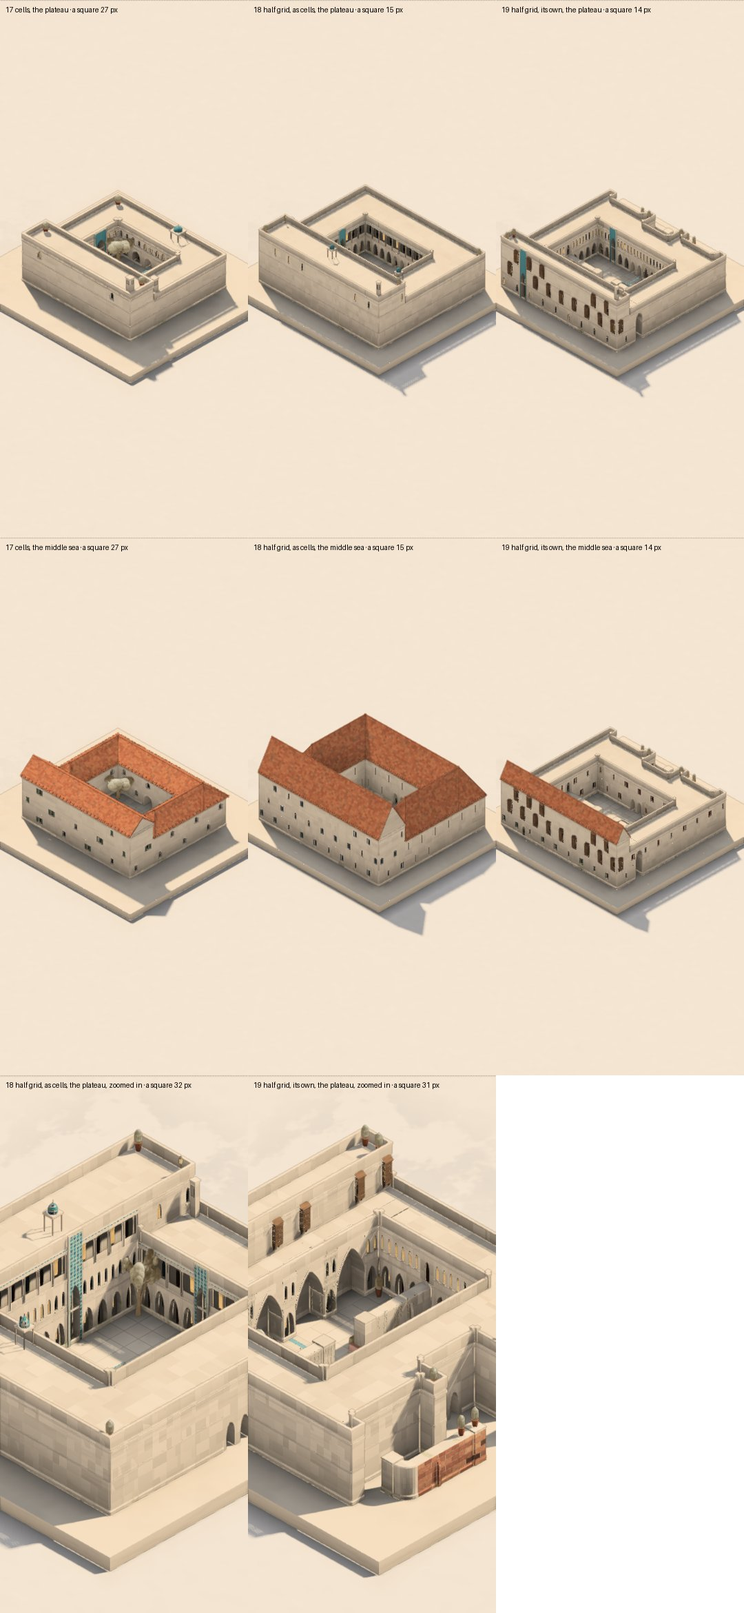
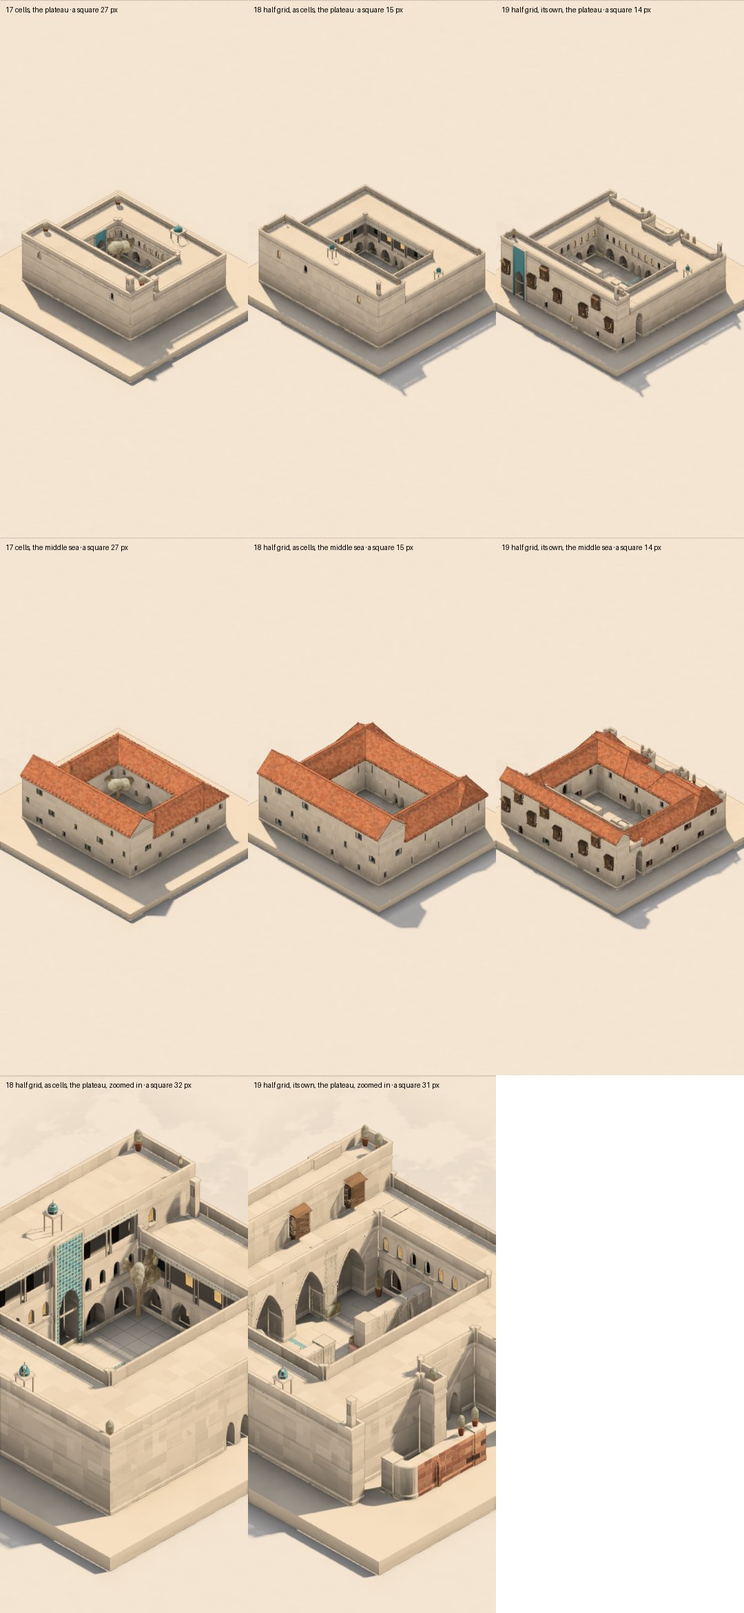
lab: half grid reads bays — openings and fronts across two faces, roofs and buildings scaled, galleries their building's own
Claude-Session: https://claude.ai/code/session_01D2Nx3PayKJtFYoab5A57H3

diff --git a/cells/lab/client/labyrinth/buildings.ts b/cells/lab/client/labyrinth/buildings.ts
@@ -66,7 +66,7 @@ export interface Building {
 /** a plan's wings: the fewest largest rectangles that cover it (overlapping where they meet), two cells wide or more;
  * what's too thin to roof left flat beside them, a terrace (`flat`). Null if it takes more than four, or more of it's
  * flat than roofed (a plan that ragged is left a terrace) */
-function wingsOf(cols: Array<[number, number]>): { wings: Array<{ i0: number; i1: number; j0: number; j1: number }>; flat: Array<[number, number]> } | null {
+function wingsOf(cols: Array<[number, number]>, bay = 1): { wings: Array<{ i0: number; i1: number; j0: number; j1: number }>; flat: Array<[number, number]> } | null {
   const has = new Set(cols.map(([x, z]) => `${x}.${z}`)), left = new Set(has), out: Array<{ i0: number; i1: number; j0: number; j1: number }> = [], flat: Array<[number, number]> = [];
   const full = (i0: number, i1: number, j0: number, j1: number) => { for (let x = i0; x <= i1; x++) for (let z = j0; z <= j1; z++) if (!has.has(`${x}.${z}`)) return false; return true; };
   while (left.size) {
@@ -80,8 +80,8 @@ function wingsOf(cols: Array<[number, number]>): { wings: Array<{ i0: number; i1
       const a = (i1 - i0 + 1) * (j1 - j0 + 1);
       if (g > gain || (g === gain && a > area)) { best = { i0, i1, j0, j1 }; area = a; gain = g; }
     }
-    if (!best || Math.min(best.i1 - best.i0, best.j1 - best.j0) < 1) { left.delete(`${x0}.${z0}`); flat.push([x0, z0]); continue; }
-    if (out.length >= 4) return null;
+    if (!best || Math.min(best.i1 - best.i0, best.j1 - best.j0) < bay) { left.delete(`${x0}.${z0}`); flat.push([x0, z0]); continue; }
+    if (out.length >= 4 * bay) return null;
     out.push(best);
     for (let p = best.i0; p <= best.i1; p++) for (let q = best.j0; q <= best.j1; q++) left.delete(`${p}.${q}`);
   }
@@ -95,6 +95,9 @@ function wingsOf(cols: Array<[number, number]>): { wings: Array<{ i0: number; i1
   return { wings: out, flat };
 }
 export interface Buildings { list: Building[]; at: Map<string, Opening>; inside: Array<[Cell, Cell]>; of: Map<number, Building>;
+  /** on the half grid: each face that leads a bay of two (both its building's, plain), by its key (k.i.j.d), to its
+   * partner's key; and back */
+  pairs: Map<string, string>; partners: Map<string, string>;
   /** the raised tops a way the hand made arrives on, and what's walked on from there at its height (a wall's top become a
    * promenade): places, by key */
   promenade: Set<number> }
@@ -117,8 +120,17 @@ export const underRoof = (b: Building): Array<[number, number]> => (b.roof ? b.c
 /** every cell of a building, from each column's base up */
 export const cellsOf = (b: Building): Cell[] => b.cols.flatMap(([x, z], n) => Array.from({ length: b.h - b.base[n] }, (_, q) => [b.base[n] + q, x, z] as Cell));
 
+/** whether a plan has a square n by n at (x, z) */
+const square = (has: Set<string>, x: number, z: number, n: number) => { for (let a = 0; a < n; a++) for (let c = 0; c < n; c++) if (!has.has(`${x + a}.${z + c}`)) return false; return true; };
+/** on the half grid (`w.bay` 2), a face's partner in its bay: the faces two to a bay along a front, the one at the even
+ * square leading (an opening, a front's bay, drawn across both from it); the other, and which way along it lies */
+export function pairOf(i: number, j: number, d: number): { lead: boolean; i: number; j: number; s: number } {
+  const [ta, tb] = DIRS[(d + 1) % 4], c = ta !== 0 ? i : j, lead = ((c % 2) + 2) % 2 === 0, o = lead ? 1 : -1;
+  return { lead, i: i + Math.abs(ta) * o, j: j + Math.abs(tb) * o, s: (ta + tb) * o };
+}
+
 function find(w: World): Buildings {
-  const list: Building[] = [], at = new Map<string, Opening>(), inside: Array<[Cell, Cell]> = [], of = new Map<number, Building>();
+  const list: Building[] = [], at = new Map<string, Opening>(), inside: Array<[Cell, Cell]> = [], of = new Map<number, Building>(), pairs = new Map<string, string>(), partners = new Map<string, string>();
   const e = w.extent();
   /**
    * A column's stack: its highest run of plain stone or archways (a passage through), and where it starts: the ground,
@@ -174,7 +186,7 @@ function find(w: World): Buildings {
     massOf.set(`${i}.${j}`, m);
     while (q.length) { const [x, z] = q.pop()!; cs.push([x, z]); m.heights.add(height(x, z)); for (const [a, b] of DIRS) if (anyH(x + a, z + b) && !massOf.has(`${x + a}.${z + b}`)) { massOf.set(`${x + a}.${z + b}`, m); q.push([x + a, z + b]); } }
     const has = new Set(cs.map(([x, z]) => `${x}.${z}`));
-    m.deep = cs.some(([x, z]) => has.has(`${x + 1}.${z}`) && has.has(`${x}.${z + 1}`) && has.has(`${x + 1}.${z + 1}`));
+    m.deep = cs.some(([x, z]) => square(has, x, z, 2 * w.bay));
   }
 
   // (the tops a stair tower serves: beside its top level, a place on stone, come into from it by a door; walked, so the
@@ -196,7 +208,7 @@ function find(w: World): Buildings {
     const has = new Set(cols.map(([x, z]) => `${x}.${z}`));
     // (a stair tower, put where a climb was too steep for a flight: a building however slim, two high or more)
     const stairTower = cols.find(([x, z]) => isTower(w.rules.get(key(0, x, z))));
-    const deep = cols.some(([x, z]) => has.has(`${x + 1}.${z}`) && has.has(`${x}.${z + 1}`) && has.has(`${x + 1}.${z + 1}`)), tower = (cols.length <= 2 && h - baseOf(i, j) >= 3) || !!stairTower;
+    const deep = cols.some(([x, z]) => square(has, x, z, 2 * w.bay)), tower = (cols.length <= 2 * w.bay * w.bay && h - baseOf(i, j) >= 3) || !!stairTower;
     // (a passage through its foot: covered, if it runs under two cells of it or more (a gate in a wall is one))
     const through = cols.filter(([x, z]) => w.archway(baseOf(x, z), x, z) >= 0).map(([x, z]) => [x, z, w.archway(baseOf(x, z), x, z)] as [number, number, number]);
     const whole = massOf.get(`${i}.${j}`);
@@ -218,13 +230,24 @@ function find(w: World): Buildings {
       }
     }
     b.faces = faces;
+    // (on the half grid, its bays of two: a plain face at an even square and the plain one beside it along the front)
+    const fkey = (f: { k: number; i: number; j: number; d: number }) => `${f.k}.${f.i}.${f.j}.${f.d}`, faceAt = new Map(faces.map((f) => [fkey(f), f]));
+    if (w.bay === 2) for (const f of faces) {
+      const p = pairOf(f.i, f.j, f.d);
+      if (!p.lead || !f.plain) continue;
+      const q = faceAt.get(`${f.k}.${p.i}.${p.j}.${f.d}`);
+      if (q?.plain) { pairs.set(fkey(f), fkey(q)); partners.set(fkey(q), fkey(f)); }
+    }
     const foot = (f: (typeof faces)[number]) => f.k === baseOf(f.i, f.j);
     // (its top: walked if a way arrives there from beyond it)
     const tops = cols.map(([x, z]) => key(h, x, z)).filter((v) => nav.places.has(v)), topSet = new Set(tops);
     // (a stair tower's top is always come to: that's what it's for, even where it's become part of what it climbs to)
     // (and one the hand climbs inside (`RULE.within`): its top walked, come to by its stair, its door where it was asked)
     const within = cols.flatMap(([x, z]) => { const r = w.rules.get(key(baseOf(x, z), x, z)); return isWithin(r) ? [{ x, z, d: r! - RULE.within }] : []; });
-    const arrives = tops.some((v) => (nav.next.get(v) ?? []).some((u) => !topSet.has(u)) || served.has(v)) || within.length > 0;
+    // (on the half grid, the top of a gallery carried along its own front (a span against it, level with its top) is its
+    // own: a way there doesn't make it walked)
+    const gallery = (u: number) => { const [ku, x, z] = unkey(u); return w.bay === 2 && ku === h && w.span(h - 1, x, z) && DIRS.some(([a, c]) => mine.has(`${x + a}.${z + c}`)); };
+    const arrives = tops.some((v) => (nav.next.get(v) ?? []).some((u) => !topSet.has(u) && !gallery(u)) || served.has(v)) || within.length > 0;
     // (doors where ways arrive against its walls, at height)
     const placeAt = (c: Cell) => key(...c);
     // (above its own foot: a door from a way at height, or (set into a bank) from the hill above)
@@ -262,6 +285,8 @@ function find(w: World): Buildings {
       const pickFrom = court.length ? court : atFoot;
       doors.push(pickFrom[hash(w.seed, id, 3) % pickFrom.length]);
     }
+    // (on the half grid, a door in its bay's leading face, so it's drawn across the bay)
+    if (w.bay === 2) doors.forEach((f, n) => { const lead = partners.get(fkey(f)); if (lead && !doors.some((g) => fkey(g) === lead)) doors[n] = faceAt.get(lead)!; });
     for (const f of doors) b.openings.push({ kind: 'door', style: 'arched', k: f.k, i: f.i, j: f.j, d: f.d });
     // (a passage through its foot: its rooms' door is in the passage's side, under the vault, where it's come in from)
     if (through.length > porch.length) {
@@ -297,7 +322,9 @@ function find(w: World): Buildings {
     const isDoor = (f: (typeof faces)[number]) => doors.some((g) => g.k === f.k && g.i === f.i && g.j === f.j && g.d === f.d);
     for (const f of faces) {
       if (!f.plain || isDoor(f) || (foot(f) && arrives && !w.courts.has(key(0, f.out[1], f.out[2])))) continue;
-      const along = f.d % 2 ? f.i : f.j;
+      // (on the half grid, a window to a bay of two, in its leading face (its partner no door), counted by bays along)
+      if (w.bay === 2) { const p = pairs.get(fkey(f)); if (!p || doors.some((g) => fkey(g) === p)) continue; }
+      const along = Math.floor((f.d % 2 ? f.i : f.j) / w.bay);
       const want = b.tower && b.inside ? f.d === f.k % 4 : (along + f.k) % 2 === 0 && (f.k < h - 1 || h <= 2 || hash(w.seed, f.i, f.j, f.k, f.d) % 3 > 0);
       if (want) b.openings.push({ kind: 'window', style: b.tower && b.inside ? 'slit' : style, k: f.k, i: f.i, j: f.j, d: f.d });
     }
@@ -310,7 +337,7 @@ function find(w: World): Buildings {
     // (the part of its plan a roof would go over: all of it, or what's left beside a terrace)
     const R = b.roofPlan ?? { i0, i1, j0, j1 }, rcols = cols.filter(([x, z]) => x >= R.i0 && x <= R.i1 && z >= R.j0 && z <= R.j1), rmine = new Set(rcols.map(([x, z]) => `${x}.${z}`));
     // (a plan that isn't a rectangle: roofed in wings, if it's no more than four of them two cells wide or more)
-    const wings = !b.rect && !b.roofPlan ? wingsOf(cols) : null;
+    const wings = !b.rect && !b.roofPlan ? wingsOf(cols, w.bay) : null;
     if (rule === RULE.noRoof || watered || (!rule && ((b.walked && !b.roofPlan) || dressedTop || (!b.rect && !wings)))) b.roof = null;
     // (each wing hipped, so where one runs into another its end slopes down under the other's roof)
     // (where a tradition's tops are flat, a plan in wings is too)
@@ -351,7 +378,7 @@ function find(w: World): Buildings {
     const d = (f.d + 2) % 4, id = `${B[0]}.${B[1]}.${B[2]}.${d}`;
     if (!at.has(id)) at.set(id, { kind: 'door', style: 'arched', k: B[0], i: B[1], j: B[2], d });
   }
-  return { list, at, inside, of, promenade };
+  return { list, at, inside, of, promenade, pairs, partners };
 }
 /** the manner a cell's built in: its building's (the cell's, or the one over it: an arch carrying it), else its district's
  * (regions.ts) */

diff --git a/cells/lab/client/labyrinth/facades.ts b/cells/lab/client/labyrinth/facades.ts
@@ -51,6 +51,7 @@ export function facades(w: World): Map<string, Bay> {
   const c = cache.get(w);
   if (c && c.v === w.version) return c.bays;
   const bays = compose(w);
+  if (w.bay === 2) inPairs(w, bays);
   cache.set(w, { v: w.version, bays });
   return bays;
 }
@@ -122,7 +123,7 @@ function compose(w: World): Map<string, Bay> {
     for (const f of b.faces) {
       const [, oi, oj] = f.out, k = f.k;
       if (!f.plain || k <= base(f.i, f.j) || k < b.h - 2 || bays.has(`${k}.${f.i}.${f.j}.${f.d}`) || overCourt(f.out)) continue;
-      if ((f.d % 2 ? f.i : f.j) % 2 !== k % 2) continue;
+      if (Math.floor((f.d % 2 ? f.i : f.j) / w.bay) % 2 !== k % 2) continue;
       // (a drop: the ground out there lower than the building's own foot; air all the way down to it)
       let drop = w.ground(oi, oj) < base(f.i, f.j);
       for (let q = w.ground(oi, oj); q < k && drop; q++) if (w.occupied(q, oi, oj) || w.earth(q, oi, oj)) drop = false;
@@ -131,11 +132,33 @@ function compose(w: World): Map<string, Bay> {
     // (turned in on its court: its other faces blank, but its doors and a few high windows)
     if (runs.length) for (const f of b.faces) {
       if (!f.plain || bays.has(`${f.k}.${f.i}.${f.j}.${f.d}`) || b.openings.some((o) => o.kind === 'door' && o.k === f.k && o.i === f.i && o.j === f.j && o.d === f.d)) continue;
-      const high = f.k === b.h - 1 && f.k > base(f.i, f.j) && (f.d % 2 ? f.i : f.j) % 2 === 0;
+      const high = f.k === b.h - 1 && f.k > base(f.i, f.j) && Math.floor((f.d % 2 ? f.i : f.j) / w.bay) % 2 === 0;
       if (!high) put(f, 'blank');
     }
   }
   return bays;
+}
+
+/**
+ * On the half grid, a front's bays two faces wide: each part moved to its bay's leading face (buildings.ts `pairOf`),
+ * which draws it across both, its partner left to it (`over`); a face with no partner in its bay (an odd one at a
+ * front's end) plain, but a jetty's (the storey stands out whole). A run's ends looked for a bay along, not a face.
+ */
+function inPairs(w: World, bays: Map<string, Bay>) {
+  const { pairs, partners } = buildings(w);
+  for (const [id, by] of [...bays]) {
+    const lead = partners.get(id);
+    if (lead && !bays.has(lead)) { const [k, i, j, d] = lead.split('.').map(Number); bays.set(lead, { ...by, k, i, j, d, out: [k, i + DIRS[d][0], j + DIRS[d][1]] }); }
+  }
+  for (const [id, by] of [...bays]) {
+    const p = pairs.get(id);
+    if (p) bays.set(p, { ...by, role: 'over', k: by.k, ends: undefined, ext: undefined });
+    else if (!partners.has(id) && by.role !== 'jetty') bays.set(id, { ...by, role: 'blank' });
+  }
+  for (const by of bays.values()) if ((by.role === 'loggia' || by.role === 'veranda') && pairs.has(`${by.k}.${by.i}.${by.j}.${by.d}`)) {
+    const [ta, tb] = DIRS[(by.d + 1) % 4], same = (s: number) => bays.get(`${by.k}.${by.i + ta * s}.${by.j + tb * s}.${by.d}`)?.role === by.role;
+    by.ends = [!same(-2), !same(2)];
+  }
 }
 
 const baseOf = (b: Building, i: number, j: number) => b.base[b.cols.findIndex(([x, z]) => x === i && z === j)];

diff --git a/cells/lab/client/labyrinth/mesh.ts b/cells/lab/client/labyrinth/mesh.ts
@@ -19,7 +19,7 @@
 import { hash } from '../kit/rng';
 import { perf } from './perf';
 import { character, look } from './character';
-import { buildings, grammarHere, opening, underRoof, type Building, type Opening } from './buildings';
+import { buildings, grammarHere, opening, pairOf, underRoof, type Building, type Opening } from './buildings';
 import { BUT, BUTH, BUTW, WT, buttresses, inBlock, outline, reach, wallCell, type Edge } from './form';
 import { CENTER, DECK, DIRS, DRESS, PLANT, key, soffit as flightSoffit, unkey, type Span, type World } from './model';
 import { climb, grow, growths } from './plants';
@@ -280,8 +280,15 @@ export function buildMesh(w: World, plain = false, selected: Set<number> = new S
       if (!e.open) return;
       const nv = nOf(e), foot = footOf(e);
       const whole = e.face >= 0 && Math.abs(e.dist - 0.5) < 1e-6, op = whole ? opening(w, k, i, j, e.face) : null, by = whole ? bayAt(w, k, i, j, e.face) : null;
-      if (by) { const [ta, tb] = DIRS[(e.face + 1) % 4]; frontBay(e.face, e.a[0] * ta + e.a[1] * tb, e.b[0] * ta + e.b[1] * tb, y0, y1 - bt, by, P, nv, foot); }
-      else if (op) { const [ta, tb] = DIRS[(e.face + 1) % 4]; holed(e.face, e.a[0] * ta + e.a[1] * tb, e.b[0] * ta + e.b[1] * tb, y0, y1 - bt, op, P, nv, foot); }
+      // (on the half grid, a bay of two faces: its leading face draws its opening or its part across both, as on a cell's
+      // face (twice as wide, twice as deep); its partner leaves it the room)
+      const fk = `${k}.${i}.${j}.${e.face}`, bs = whole && w.bay === 2 ? buildings(w) : null, lead = bs?.partners.get(fk);
+      const ceded = !!lead && (() => { const [lk, li, lj, ld] = lead.split('.').map(Number); return !!(opening(w, lk, li, lj, ld) || bayAt(w, lk, li, lj, ld)); })();
+      const wide = !!bs?.pairs.has(fk) && !!(op || by), sg = wide ? pairOf(i, j, e.face).s : 0;
+      const PB = wide ? (d: number, s2: number, y: number, inset = 0) => P(d, sg * 0.5 + 2 * s2, y, 2 * inset) : P;
+      if (ceded && !by) { /* (its partner's) */ }
+      else if (by) { const [ta, tb] = DIRS[(e.face + 1) % 4]; frontBay(e.face, wide ? -0.5 : e.a[0] * ta + e.a[1] * tb, wide ? 0.5 : e.b[0] * ta + e.b[1] * tb, y0, y1 - bt, by, PB, nv, foot); }
+      else if (op) { const [ta, tb] = DIRS[(e.face + 1) % 4]; holed(e.face, wide ? -0.5 : e.a[0] * ta + e.a[1] * tb, wide ? 0.5 : e.b[0] * ta + e.b[1] * tb, y0, y1 - bt, op, PB, nv, foot); }
       else quad(L(e.a, y0), L(e.b, y0), L(e.b, y1 - bt), L(e.a, y1 - bt), nv, [foot, foot, 1, 1], MAT.stone);
       if (lid) { cap(); quad(L(e.a, y1 - B), L(e.b, y1 - B), L(inner[n].b, y1), L(inner[n].a, y1), [nv[0] * Math.SQRT1_2, Math.SQRT1_2, nv[2] * Math.SQRT1_2], 1, MAT.stone); cur.dress = keep; }
     });

diff --git a/cells/lab/client/labyrinth/roof.ts b/cells/lab/client/labyrinth/roof.ts
@@ -26,7 +26,8 @@ export function roof(E: Emit, b: Building, wing?: { i0: number; i1: number; j0: 
   // (a plan in wings: a roof over each, the same height at the eaves, meeting the others in valleys)
   if (b.wings && !wing) { for (const wg of b.wings) roof(E, b, wg); return; }
   const g = grammarOfId(w, b.id), steep = g.roof === 'steep', eave = g.roof === 'eave';
-  const O = eave ? 0.3 : steep ? 0.06 : 0.12, y = b.h, ye = y + 0.02;
+  // (on the half grid (`w.bay` 2), its overhang and its pitch as a cell's: a square there half as wide)
+  const O = (eave ? 0.3 : steep ? 0.06 : 0.12) * w.bay, y = b.h, ye = y + 0.02;
   // (over the plan, or the part of it left beside a terrace, or a wing of it)
   const P = wing ?? b.roofPlan ?? b, xa = X(P.i0), xb = X(P.i1 + 1), za = Z(P.j0), zb = Z(P.j1 + 1), along = xb - xa >= zb - za ? 0 : 1;
   // (the tiles' kind in the tone: terracotta, slate past 1.5, grey tile past 2.5: render.ts)
@@ -86,7 +87,7 @@ export function roof(E: Emit, b: Building, wing?: { i0: number; i1: number; j0: 
   if (eave && !wing) skirts(E, b, xa, xb, za, zb);
   // (hipped, or gabled: a ridge along the long way, at a pitch a little under half the short span; in the north steep, a
   // spire on a tower; in the east low)
-  const S = along === 0 ? Z1 - Z0 : X1 - X0, H = S * (steep ? (b.roof === 'hipped' ? 1.3 : 0.95) : eave ? 0.36 : 0.42);
+  const S = (along === 0 ? Z1 - Z0 : X1 - X0) / w.bay, H = S * (steep ? (b.roof === 'hipped' ? 1.3 : 0.95) : eave ? 0.36 : 0.42);
   const r0: V3 = along === 0 ? [b.roof === 'hipped' ? X0 + S / 2 : X0, ye + H, cz] : [cx, ye + H, b.roof === 'hipped' ? Z0 + S / 2 : Z0];
   const r1: V3 = along === 0 ? [b.roof === 'hipped' ? X1 - S / 2 : X1, ye + H, cz] : [cx, ye + H, b.roof === 'hipped' ? Z1 - S / 2 : Z1];
   // (in the east the corners turned up)

diff --git a/cells/lab/client/labyrinth/demo.ts b/cells/lab/client/labyrinth/demo.ts
@@ -391,7 +391,9 @@ function courtHouse(): World {
  * pilasters, the court split by a thin wall with a gate in it, and a forecourt walled thin, a path half a cell wide.
  */
 function halved(w0: World): World {
-  const w = new World(w0.seed), t = -100, add: Array<[number, number, number, number]> = [], arches: Array<[number, number, number, number, number]> = [];
+  const w = new World(w0.seed), t = -100;
+  w.bay = 2;
+  const add: Array<[number, number, number, number]> = [], arches: Array<[number, number, number, number, number]> = [];
   const arched = [...w0.archways.keys()].map(unkey), solid = [...w0.mass.keys()].filter((c) => !w0.archways.has(c)).map(unkey);
   for (const [k, i, j] of solid) for (const [a, b] of [[0, 0], [1, 0], [0, 1], [1, 1]]) add.push([k, 2 * i + a, 2 * j + b, t]);
   for (const [k, i, j] of arched) for (const [a, b] of [[0, 0], [1, 0], [0, 1], [1, 1]]) arches.push([k, 2 * i + a, 2 * j + b, 1, t]);
@@ -401,6 +403,7 @@ function halved(w0: World): World {
 }
 function halfHouse(): World {
   const w = new World(43), t = -100;
+  w.bay = 2;
   const cells: Array<[number, number, number, number]> = [];
   const box = (i0: number, i1: number, j0: number, j1: number, k0: number, k1: number) => { for (let i = i0; i <= i1; i++) for (let j = j0; j <= j1; j++) for (let k = k0; k <= k1; k++) cells.push([k, i, j, t]); };
   // (the north wing: three storeys, the top one set back half a cell from the court; along its court side at the

diff --git a/cells/lab/client/labyrinth/model.ts b/cells/lab/client/labyrinth/model.ts
@@ -247,6 +247,9 @@ export const unkey = (v: number): Cell => [Math.floor(v / (N * N)), (v % N) + LO
 
 export class World {
   ops: Op[] = [];
+  /** grid squares to a bay: 1, or 2 on the half grid (each cell four in plan), where an opening, a front's bay and a
+   * roof's pitch are read over two squares (the grid spike: static/labyrinth-grid.md) */
+  bay = 1;
   version = 0;
   /** how each connection came out, the last time it was worked out (by operation) */
   reached = new Map<Op, Reached>();

diff --git a/cells/lab/static/labyrinth-grid.md b/cells/lab/static/labyrinth-grid.md
@@ -15,7 +15,7 @@ The question: should a placed cell be four of today's in plan, its storeys as ta
 
 `?plan=0.5` draws a half-grid world in its own proportions: squeezed in plan, its storeys as tall as before. It is for looking only. A touch strikes where it would have struck unsqueezed.
 
-![the three at a phone's size, and the half grid zoomed in](labyrinth/grid-spike.jpg)
+![the three at a phone's size, and the half grid zoomed in (the first round)](labyrinth/grid-spike-before.jpg)
 
 ## What it costs to draw
 
@@ -74,13 +74,49 @@ The hand can't set a wall half back, put a pilaster on a front, or make a path n
 
 Each reads at the zoom you'd place it at (the bottom row of the sheet).
 
-**What breaks:** the rules still measure in cells.
+**What broke in the first round:** the rules still measured in cells.
 
-- **Windows:** each face is given one window per half cell, so 19's fronts have twice as many, narrow and close-set.
+- **Windows:** each face was given one window per half cell, so 19's fronts had twice as many, narrow and close-set.
 - **Roofs:** in the middle sea, roofs formed only over the north wing, not over the wings a cell and a half deep.
-- **18:** as cells it holds together because its fronts are still two half cells to a bay. 19's are not.
 
-This is the real work a move to the half grid would need: the rules reading a run of two half cells as one bay, and a wing's depth as a length, not a count.
+### The second round: the rules read bays
+
+A world on the half grid now says so (`w.bay = 2`). These rules now read in bays of two half cells:
+
+- **Openings and a front's parts** (buildings.ts `pairOf`, facades.ts `inPairs`, mesh.ts):
+  - two plain faces side by side along a front make a bay;
+  - the one at the even square leads, and draws the bay's window, door, gallery arch, portal, paired windows or loggia across both faces, at a cell's size and depth;
+  - its partner leaves it the room;
+  - doors move to their bay's leading face;
+  - a face with no partner (an odd one at a front's end) stays plain;
+  - rhythms that went every other face (windows, balconies, high windows) now go every other bay.
+- **Buildings:**
+  - a mass is a building when it has two cells by two somewhere in it (four half cells by four);
+  - a tower is up to two cells;
+  - a plan's wings are at least a cell and a half wide, up to eight of them.
+- **Roofs** (roof.ts): pitch and overhang are worked out as a cell's.
+- **Galleries:** the top of a gallery carried along a building's own front, under its storey, is the building's own top. A way onto it doesn't make the roof walked. Without this, 19's ring was read as a terrace and left flat.
+
+Nothing changes on the cell grid: the drawing of stories 1–16 hashes the same in all four traditions.
+
+![after: bays of two](labyrinth/grid-spike.jpg)
+
+**Story 19 after:**
+
+- **In the middle sea:**
+  - the whole house is roofed: five hipped wings round the court, the set-back storey gabled over them;
+  - its windows are a cell apart, shuttered, at a cell's size;
+  - the 1.5-cell wings carry the same roof a 2-cell wing does, a little lower.
+- **On the plateau:**
+  - a gallery of arches a cell wide runs round the court, with paired windows over it;
+  - the outer walls are blank, as a court house's are.
+- **The set-back top storey reads as a building of its own:**
+  - it doesn't face the court, so its portal is at its outer door and its windows go all round;
+  - that's the same rule on cells, not the half grid.
+
+**Story 18** (the same house made four) now draws much as 17 does. Its fronts lost their doubled windows: 144k vertices against 157k.
+
+**What it costs:** meshing story 19 in the middle sea now takes about 450 ms for 194k vertices, against 130 ms and 92k for story 17. Most of that is the roof tiles: they are laid per unit of the unsqueezed drawing, so the half grid draws twice the courses. A real move to the half grid would build its geometry in true cell units, and that cost would go.
 
 ## Legible on a phone?
 
@@ -119,15 +155,25 @@ So edge walls cost the most to build into the model, and pay off mostly where th
 
 ## Where it leaves us
 
-**The half grid works**, in look, in cost (about 2× to mesh) and in effort, provided:
+**The half grid works**, in look, in cost and in effort, provided two things hold:
 
-- the default brush is two half cells wide, so mass is as quick to build as today and thin is a choice;
-- the rules learn bays: one opening, one roof span or one arcade bay per cell's width, whatever the grid.
+- **The brush:** the default is two half cells wide, so mass is as quick to build as today and thin is a choice.
+- **The rules read bays.** The second round shows that this is contained:
+  - a pairing of faces;
+  - three thresholds in buildings.ts;
+  - two in roof.ts;
+  - one change to the gallery rule.
 
-The second of these is the bigger job, and it's the one to try next before deciding. Making 19 read right (windows by bay, roofs over 1.5-cell wings) is a contained change on the fixture. If it closes the gap, the move to N=96 with a two-wide brush is mostly mechanical. If it doesn't, keep cells and add the half-thick pieces as rules-made kinds instead:
+  It needed no change to how anything is drawn.
 
-- setback;
-- pilaster;
-- narrow path.
+**What a real move would still take:**
+
+- **The grid:** from 48 to 96 across.
+- **Distances:** every distance in the rules doubled (arcade spacing, how far a court looks, a front's runs).
+- **Geometry:** built in true cell units, not squeezed after.
+- **Touch:** half-cell picking, and the two-wide brush.
+- **The other traditions:**
+  - the north's jetties still draw their windows a face at a time;
+  - the courts' gardens are laid per square.
 
 **Edge walls aren't worth a new primitive for this camera.**
